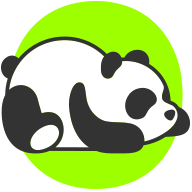
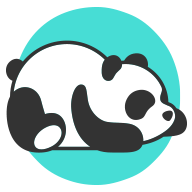
no message

diff --git a/menu.html b/menu.html
@@ -305,7 +305,7 @@
 		<div class="horizontal div1">
     		<div class="vertical">
     			<a href="https://doliveros1.github.io/guanmor/site/index.html" target="_blank">
-    				<img class="logo" src="guanmor_logo_2.svg">
+    				<img class="logo" src="guanmor_logo.svg">
     			</a>				
    			 </div>
 		</div>

diff --git a/index.html b/index.html
@@ -97,7 +97,7 @@
 		<div class="horizontal div1">
     		<div class="vertical">
     			<a href="https://doliveros1.github.io/guanmor/site/index.html" target="_blank">
-    				<img class="logo" src="guanmor_logo_2.svg">
+    				<img class="logo" src="guanmor_logo.svg">
     			</a>				
    			 </div>
 		</div>
